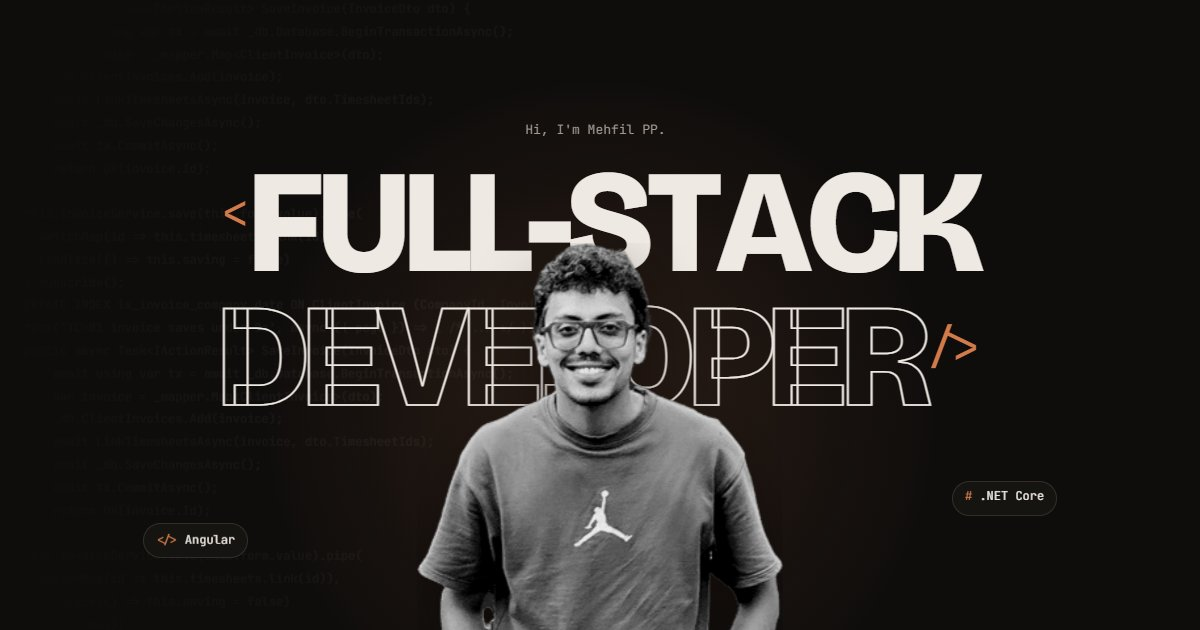
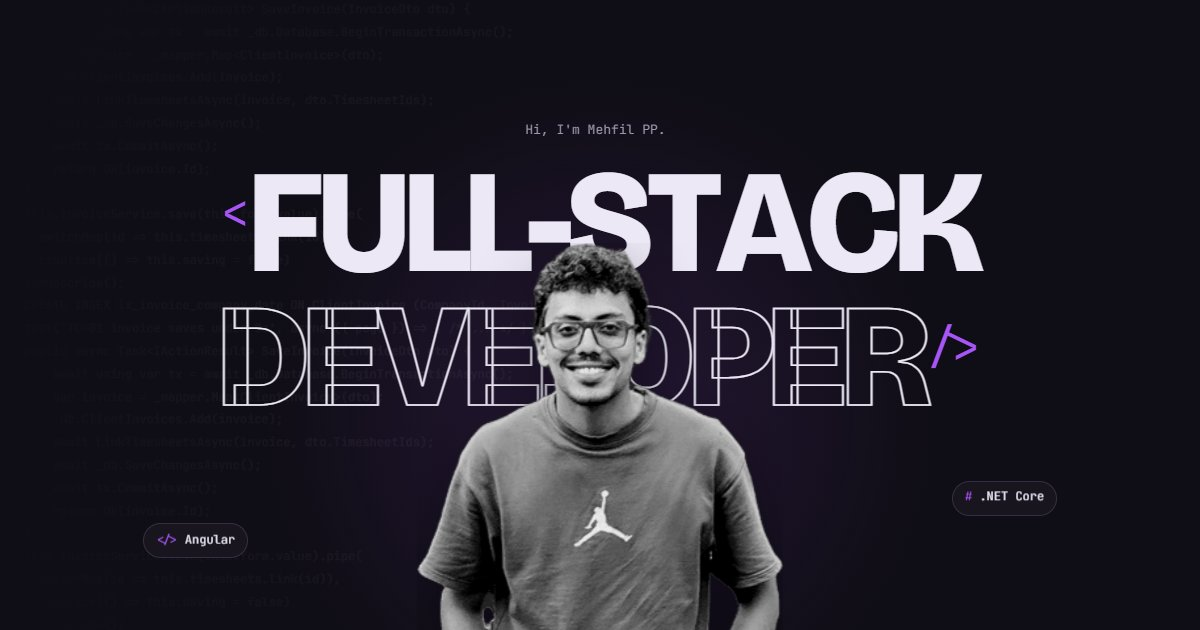
Switch colour theme to the Stimes palette
Replaces the copper palette with the Stimes dark-theme colours: violet
near-black background, plum surfaces, lavender text and brand purple
(#a855f7) as the accent. Commit graph, 404 page, favicon and preview
images follow. Fonts, layout and motion are unchanged.

diff --git a/index.html b/index.html
@@ -3,7 +3,7 @@
 <head>
 <meta charset="utf-8">
 <meta name="viewport" content="width=device-width, initial-scale=1, viewport-fit=cover">
-<meta name="theme-color" content="#0f0d0c">
+<meta name="theme-color" content="#0f0d15">
 <meta property="og:title" content="Mehfil PP · Full-Stack Developer">
 <meta property="og:description" content="Angular & .NET developer building a production multi-tenant ERP, with AI-assisted engineering.">
 <meta property="og:image" content="https://mehfil84.github.io/assets/og.jpg">
@@ -20,15 +20,15 @@
 /* Layout: one dark column. Hero = giant two-line headline with the cut-out portrait standing in
    front of it; folder-card projects; footer where the portrait stands beside a commit graph that spells the name. */
 :root {
-  --ink: #0f0d0c;          /* page ground, warm near-black */
-  --ink-2: #181513;        /* raised surfaces */
-  --ink-3: #24201d;        /* folder bodies, inputs */
-  --line: #332d29;         /* hairlines */
-  --paper: #efe9e3;        /* primary text */
-  --muted: #a39890;        /* secondary text */
-  --copper: #d27a4a;       /* accent, from the photo's shirt */
-  --copper-soft: #d27a4a33;
-  --g0: #1d1917; --g1: #2c211b; --g2: #4a2c1d; --g3: #7a4026; --g4: #f0915a;  /* commit-graph ramp */
+  --ink: #0f0d15;          /* Stimes dark --bg */
+  --ink-2: #1a1722;        /* raised surfaces */
+  --ink-3: #211d2b;        /* folder bodies, inputs */
+  --line: #342e42;         /* hairlines */
+  --paper: #ece8f5;        /* primary text */
+  --muted: #9d96ad;        /* secondary text */
+  --accent: #a855f7;       /* Stimes brand purple (brand-500) */
+  --accent-soft: #a855f733;
+  --g0: #1c1826; --g1: #2a2140; --g2: #43286e; --g3: #6d28d9; --g4: #b57bff;  /* commit-graph ramp */
   --f-display: "Bricolage Grotesque", "Arial Narrow", system-ui, sans-serif;
   --f-body: "Instrument Sans", system-ui, -apple-system, "Segoe UI", sans-serif;
   --f-mono: "JetBrains Mono", ui-monospace, Consolas, monospace;
@@ -45,7 +45,7 @@ body {
 }
 body::before { content: ""; position: fixed; inset: 0 0 auto; height: env(safe-area-inset-top, 0px); z-index: 10; background: var(--ink); }
 a { color: inherit; }
-:focus-visible { outline: 2px solid var(--copper); outline-offset: 3px; border-radius: 6px; }
+:focus-visible { outline: 2px solid var(--accent); outline-offset: 3px; border-radius: 6px; }
 .wrap { max-width: var(--wrap); margin: 0 auto; padding-left: max(16px, env(safe-area-inset-left, 0px)); padding-right: max(16px, env(safe-area-inset-right, 0px)); }
 section { padding-block: clamp(64px, 10vw, 120px); }
 .eyebrow { font-family: var(--f-mono); font-size: 12px; letter-spacing: .14em; text-transform: uppercase; color: var(--muted); }
@@ -71,7 +71,7 @@ h2 { font-family: var(--f-display); font-weight: 600; font-size: clamp(34px, 5vw
 }
 @keyframes drop { from { transform: translateY(-30px); opacity: 0; } }
 .nav-pill .brand { font-family: var(--f-display); font-weight: 600; margin-right: 8px; text-decoration: none; }
-.nav-pill .brand b { color: var(--copper); }
+.nav-pill .brand b { color: var(--accent); }
 .nav-pill nav { display: flex; gap: 2px; overflow-x: auto; scrollbar-width: none; }
 .nav-pill nav a { font-size: 13px; color: var(--muted); text-decoration: none; padding: 6px 11px; border-radius: 999px; white-space: nowrap; transition: color .2s, background .2s; }
 .nav-pill nav a:hover { color: var(--paper); background: var(--ink-3); }
@@ -81,7 +81,7 @@ h2 { font-family: var(--f-display); font-weight: 600; font-size: clamp(34px, 5vw
 .hero { position: relative; padding-block: clamp(84px, 10vw, 120px) 0; overflow: hidden; isolation: isolate; }
 .spot {
   position: absolute; inset: 0; z-index: -1; pointer-events: none;
-  background: radial-gradient(520px circle at var(--mx, 50%) var(--my, 45%), #d27a4a26, transparent 65%);
+  background: radial-gradient(520px circle at var(--mx, 50%) var(--my, 45%), #a855f726, transparent 65%);
   transition: background .1s;
 }
 .codebg {
@@ -94,7 +94,7 @@ h2 { font-family: var(--f-display); font-weight: 600; font-size: clamp(34px, 5vw
 @keyframes drift { to { transform: translateY(-30%); } }
 .hero-inner { position: relative; text-align: center; }
 .hello { font-family: var(--f-mono); font-size: 13px; color: var(--muted); margin: 0 0 18px; min-height: 1.6em; }
-.hello .caret { display: inline-block; width: .55em; height: 1.1em; vertical-align: -.2em; background: var(--copper); margin-left: 2px; animation: blink 1s steps(1) infinite; }
+.hello .caret { display: inline-block; width: .55em; height: 1.1em; vertical-align: -.2em; background: var(--accent); margin-left: 2px; animation: blink 1s steps(1) infinite; }
 @keyframes blink { 50% { opacity: 0; } }
 .stage { position: relative; height: clamp(440px, 62vw, 700px); }
 .hero h1 {
@@ -106,7 +106,7 @@ h2 { font-family: var(--f-display); font-weight: 600; font-size: clamp(34px, 5vw
 .hero h1 .line.outline { color: transparent; -webkit-text-stroke: 1.5px var(--paper); }
 .hero h1 .ch { display: inline-block; animation: rise 1s var(--ease) both; animation-delay: calc(.15s + var(--i) * 45ms); }
 @keyframes rise { from { transform: translateY(105%) rotate(6deg); } }
-.hero h1 .br { font-family: var(--f-mono); font-weight: 400; font-size: .32em; color: var(--copper); letter-spacing: 0; -webkit-text-stroke: 0; vertical-align: .9em; }
+.hero h1 .br { font-family: var(--f-mono); font-weight: 400; font-size: .32em; color: var(--accent); letter-spacing: 0; -webkit-text-stroke: 0; vertical-align: .9em; }
 .me {
   position: absolute; z-index: 2; left: 50%; bottom: 0; height: 88%; width: auto; max-width: none;
   transform: translateX(-50%); transform-origin: bottom center;
@@ -123,7 +123,7 @@ h2 { font-family: var(--f-display); font-weight: 600; font-size: clamp(34px, 5vw
   white-space: nowrap; animation: pop .7s var(--ease) both; animation-delay: calc(1.2s + var(--d) * 120ms);
   translate: var(--px, 0) var(--py, 0); transition: translate .4s var(--ease);
 }
-.badge b { color: var(--copper); font-weight: 500; }
+.badge b { color: var(--accent); font-weight: 500; }
 .badge > span { display: inline-block; animation: bob 4s ease-in-out infinite; animation-delay: calc(var(--d) * -.9s); }
 @keyframes pop { from { opacity: 0; transform: scale(.6); } }
 @keyframes bob { 50% { transform: translateY(-8px); } }
@@ -135,7 +135,7 @@ h2 { font-family: var(--f-display); font-weight: 600; font-size: clamp(34px, 5vw
 }
 .hero-meta > div { font-size: 14px; color: var(--muted); min-width: 0; }
 .hero-meta .l { text-align: left; } .hero-meta .r { text-align: right; }
-.hero-meta .c { font-family: var(--f-mono); font-size: 12px; color: var(--copper); min-width: 24ch; }
+.hero-meta .c { font-family: var(--f-mono); font-size: 12px; color: var(--accent); min-width: 24ch; }
 .status { display: inline-flex; align-items: center; gap: 8px; }
 .status i { width: 8px; height: 8px; border-radius: 50%; background: #5fbf7a; box-shadow: 0 0 0 0 #5fbf7a66; animation: ping 2s ease-out infinite; }
 @keyframes ping { to { box-shadow: 0 0 0 10px #5fbf7a00; } }
@@ -150,7 +150,7 @@ h2 { font-family: var(--f-display); font-weight: 600; font-size: clamp(34px, 5vw
 .proof li { padding: 26px 20px; border-left: 1px solid var(--line); min-width: 0; }
 .proof li:first-child { border-left: 0; }
 .proof .n { font-family: var(--f-display); font-weight: 600; font-size: clamp(28px, 3.4vw, 40px); line-height: 1; font-variant-numeric: tabular-nums; }
-.proof .n em { font-style: normal; color: var(--copper); }
+.proof .n em { font-style: normal; color: var(--accent); }
 .proof .t { font-size: 13px; color: var(--muted); margin-top: 8px; }
 @media (max-width: 760px) {
   .proof ul { grid-template-columns: 1fr 1fr; }
@@ -163,7 +163,7 @@ h2 { font-family: var(--f-display); font-weight: 600; font-size: clamp(34px, 5vw
 .marquee .track { display: flex; width: max-content; animation: scroll 38s linear infinite; }
 .marquee:hover .track { animation-play-state: paused; }
 .marquee span { font-family: var(--f-display); font-weight: 600; font-size: clamp(22px, 3vw, 34px); padding-inline: 22px; white-space: nowrap; color: var(--muted); display: inline-flex; align-items: center; gap: 44px; }
-.marquee span::after { content: "✳"; color: var(--copper); font-size: .6em; }
+.marquee span::after { content: "✳"; color: var(--accent); font-size: .6em; }
 .marquee span:nth-child(3n+1) { color: var(--paper); }
 @keyframes scroll { to { transform: translateX(-50%); } }
 
@@ -171,7 +171,7 @@ h2 { font-family: var(--f-display); font-weight: 600; font-size: clamp(34px, 5vw
 .about-grid { display: grid; grid-template-columns: 1.35fr 1fr; gap: clamp(28px, 5vw, 72px); align-items: start; }
 .about-grid > * { min-width: 0; }
 .about p.big { font-family: var(--f-display); font-size: clamp(22px, 2.6vw, 30px); line-height: 1.3; letter-spacing: -.01em; margin: 18px 0 0; text-wrap: pretty; }
-.about p.big b { color: var(--copper); font-weight: 600; }
+.about p.big b { color: var(--accent); font-weight: 600; }
 .about p.body { color: var(--muted); margin: 18px 0 0; max-width: 62ch; }
 .snap { margin: 0; }
 /* portrait crop of the photo (x 215–555, y 530–955 of 768×1024), black and white like a print */
@@ -180,7 +180,7 @@ h2 { font-family: var(--f-display); font-weight: 600; font-size: clamp(34px, 5vw
   position: absolute; max-width: none; width: 225.9%; left: -63.2%; top: -124.7%;
   filter: grayscale(1) contrast(1.18) brightness(.92); transition: filter .8s ease, transform 1.2s var(--ease); transform-origin: 50% 60%;
 }
-.snap .frame::after { content: ""; position: absolute; inset: 0; pointer-events: none; background: radial-gradient(ellipse at 50% 40%, transparent 55%, #000a 100%), linear-gradient(transparent 70%, #0f0d0ccc); }
+.snap .frame::after { content: ""; position: absolute; inset: 0; pointer-events: none; background: radial-gradient(ellipse at 50% 40%, transparent 55%, #000a 100%), linear-gradient(transparent 70%, #0f0d15cc); }
 .snap:hover .frame img { filter: grayscale(0) contrast(1) brightness(1); transform: scale(1.04); }
 .snap figcaption { font-family: var(--f-mono); font-size: 12px; color: var(--muted); padding-top: 10px; display: flex; justify-content: space-between; gap: 12px; }
 @media (max-width: 800px) { .about-grid { grid-template-columns: 1fr; } .snap { max-width: 380px; } }
@@ -188,10 +188,10 @@ h2 { font-family: var(--f-display); font-weight: 600; font-size: clamp(34px, 5vw
 /* ---------- Skills ---------- */
 .skills { display: grid; grid-template-columns: repeat(auto-fit, minmax(240px, 1fr)); gap: 0; margin-top: 40px; border-top: 1px solid var(--line); }
 .skill { padding: 22px 20px 24px 0; border-bottom: 1px solid var(--line); min-width: 0; }
-.skill h3 { font-family: var(--f-mono); font-size: 12px; font-weight: 500; letter-spacing: .12em; text-transform: uppercase; color: var(--copper); margin: 0 0 12px; }
+.skill h3 { font-family: var(--f-mono); font-size: 12px; font-weight: 500; letter-spacing: .12em; text-transform: uppercase; color: var(--accent); margin: 0 0 12px; }
 .chips { display: flex; flex-wrap: wrap; gap: 6px; }
 .chips span { font-size: 13px; padding: 4px 10px; border: 1px solid var(--line); border-radius: 999px; color: var(--paper); background: var(--ink-2); transition: border-color .2s, transform .2s var(--ease); }
-.chips span:hover { border-color: var(--copper); transform: translateY(-2px); }
+.chips span:hover { border-color: var(--accent); transform: translateY(-2px); }
 
 /* ---------- Projects as folders ---------- */
 .proj-head { display: flex; justify-content: space-between; align-items: end; gap: 20px; flex-wrap: wrap; }
@@ -201,7 +201,7 @@ h2 { font-family: var(--f-display); font-weight: 600; font-size: clamp(34px, 5vw
 @media (max-width: 960px) { .folders { grid-template-columns: repeat(2, 1fr); } }
 @media (max-width: 480px) { .folders { grid-template-columns: 1fr; } }
 .folder { all: unset; cursor: pointer; display: block; position: relative; padding-top: 22px; min-width: 0; }
-.folder:focus-visible { outline: 2px solid var(--copper); outline-offset: 6px; border-radius: 10px; }
+.folder:focus-visible { outline: 2px solid var(--accent); outline-offset: 6px; border-radius: 10px; }
 .folder .back { position: absolute; inset: 22px 0 0; background: var(--ink-2); border: 1px solid var(--line); border-radius: 4px 10px 10px 10px; }
 .folder .back::before {
   content: ""; position: absolute; left: -1px; top: -18px; width: 42%; height: 19px;
@@ -210,9 +210,9 @@ h2 { font-family: var(--f-display); font-weight: 600; font-size: clamp(34px, 5vw
 .folder .sheet {
   position: absolute; left: 10%; right: 10%; top: 30px; height: 70%; border-radius: 4px;
   background: var(--paper); transition: transform .45s var(--ease);
-  padding: 10px 12px; font-family: var(--f-mono); font-size: 9px; line-height: 1.6; color: #4a403a; overflow: hidden;
+  padding: 10px 12px; font-family: var(--f-mono); font-size: 9px; line-height: 1.6; color: #1f0e3d; overflow: hidden;
 }
-.folder .sheet.s2 { left: 16%; right: 6%; top: 34px; background: #cfc5bc; transform: rotate(3deg); }
+.folder .sheet.s2 { left: 16%; right: 6%; top: 34px; background: #d2b5f0; transform: rotate(3deg); }
 .folder:hover .sheet.s1, .folder:focus-visible .sheet.s1 { transform: translateY(-30px) rotate(-3deg); }
 .folder:hover .sheet.s2, .folder:focus-visible .sheet.s2 { transform: translateY(-16px) rotate(6deg); }
 .folder .front {
@@ -221,8 +221,8 @@ h2 { font-family: var(--f-display); font-weight: 600; font-size: clamp(34px, 5vw
   transform-origin: bottom; transition: transform .45s var(--ease), border-color .3s;
   box-shadow: 0 -10px 30px -12px #0009;
 }
-.folder:hover .front, .folder:focus-visible .front { transform: perspective(700px) rotateX(-16deg); border-color: var(--copper); }
-.folder .tag { font-family: var(--f-mono); font-size: 11px; color: var(--copper); letter-spacing: .06em; }
+.folder:hover .front, .folder:focus-visible .front { transform: perspective(700px) rotateX(-16deg); border-color: var(--accent); }
+.folder .tag { font-family: var(--f-mono); font-size: 11px; color: var(--accent); letter-spacing: .06em; }
 .folder .name { font-family: var(--f-display); font-size: 21px; font-weight: 600; line-height: 1.15; display: flex; justify-content: space-between; gap: 10px; align-items: center; }
 .folder .name .arr { flex: none; width: 26px; height: 26px; border-radius: 6px; background: var(--paper); color: var(--ink); display: grid; place-items: center; font-size: 14px; transition: transform .3s var(--ease); }
 .folder:hover .name .arr { transform: rotate(45deg); }
@@ -243,14 +243,14 @@ dialog.case::backdrop { background: #000b; backdrop-filter: blur(4px); }
 .case ul { margin: 20px 0 0; padding-left: 18px; color: var(--muted); display: grid; gap: 10px; }
 .case ul b { color: var(--paper); font-weight: 600; }
 .case .stack { margin-top: 22px; }
-.case .go { display: inline-block; margin-top: 22px; color: var(--copper); font-weight: 500; text-decoration: none; border-bottom: 1px solid var(--copper-soft); }
+.case .go { display: inline-block; margin-top: 22px; color: var(--accent); font-weight: 500; text-decoration: none; border-bottom: 1px solid var(--accent-soft); }
 
 /* ---------- Experience ---------- */
 .xp { margin-top: 44px; display: grid; gap: 0; border-top: 1px solid var(--line); }
 .xp-row { display: grid; grid-template-columns: 200px 1fr; gap: 28px; padding-block: 30px; border-bottom: 1px solid var(--line); }
 .xp-row > * { min-width: 0; }
 .xp-when { font-family: var(--f-mono); font-size: 13px; color: var(--muted); font-variant-numeric: tabular-nums; }
-.xp-when b { display: block; color: var(--copper); font-weight: 500; }
+.xp-when b { display: block; color: var(--accent); font-weight: 500; }
 .xp h3 { font-family: var(--f-display); font-size: 24px; font-weight: 600; margin: 0; line-height: 1.2; }
 .xp h3 span { color: var(--muted); font-weight: 400; }
 .xp h4 { font-size: 13px; font-weight: 600; letter-spacing: .04em; text-transform: uppercase; color: var(--paper); margin: 22px 0 8px; }
@@ -259,14 +259,14 @@ dialog.case::backdrop { background: #000b; backdrop-filter: blur(4px); }
 @media (max-width: 700px) { .xp-row { grid-template-columns: 1fr; gap: 10px; } }
 
 /* ---------- Footer: the main character ---------- */
-footer { border-top: 1px solid var(--line); padding-block: clamp(56px, 8vw, 96px) 28px; background: radial-gradient(ellipse at 50% 120%, #2a1a12 0%, var(--ink) 60%); overflow: hidden; }
+footer { border-top: 1px solid var(--line); padding-block: clamp(56px, 8vw, 96px) 28px; background: radial-gradient(ellipse at 50% 120%, #24123f 0%, var(--ink) 60%); overflow: hidden; }
 .f-top { display: grid; grid-template-columns: 1.2fr 1fr 1fr; gap: 32px; }
 .f-top > * { min-width: 0; }
 .f-top .bye { font-family: var(--f-display); font-weight: 600; font-size: clamp(34px, 5vw, 60px); line-height: 1; letter-spacing: -.02em; margin: 0; }
-.f-top .bye em { font-style: normal; color: var(--copper); }
+.f-top .bye em { font-style: normal; color: var(--accent); }
 .f-col h3 { font-family: var(--f-mono); font-size: 12px; font-weight: 500; letter-spacing: .12em; text-transform: uppercase; color: var(--muted); margin: 0 0 12px; }
 .f-col a { display: block; text-decoration: none; padding: 3px 0; color: var(--paper); width: fit-content; transition: color .2s, transform .2s var(--ease); }
-.f-col a:hover { color: var(--copper); transform: translateX(4px); }
+.f-col a:hover { color: var(--accent); transform: translateX(4px); }
 .mail { display: flex; align-items: center; gap: 8px; flex-wrap: wrap; }
 .mail code { font-family: var(--f-mono); font-size: 13px; user-select: all; word-break: break-all; }
 .btn-sm { all: unset; cursor: pointer; font-size: 12px; padding: 4px 10px; border: 1px solid var(--line); border-radius: 999px; color: var(--muted); }
@@ -282,7 +282,7 @@ footer { border-top: 1px solid var(--line); padding-block: clamp(56px, 8vw, 96px
 .graph i[data-l="1"] { background: var(--g1); }
 .graph i[data-l="2"] { background: var(--g2); }
 .graph i[data-l="3"] { background: var(--g3); }
-.graph i[data-l="4"] { background: var(--g4); box-shadow: 0 0 12px -2px #f0915a66; }
+.graph i[data-l="4"] { background: var(--g4); box-shadow: 0 0 12px -2px #a855f780; }
 .graph i:hover { transform: scale(1.6); position: relative; z-index: 2; }
 .graph.build i[data-name] { animation: commit .6s var(--ease) both; animation-delay: calc(var(--c) * 40ms + var(--r) * 20ms); }
 @keyframes commit { 0% { transform: scale(.2); background: var(--g1); } 60% { transform: scale(1.35); } }
@@ -314,8 +314,8 @@ footer { border-top: 1px solid var(--line); padding-block: clamp(56px, 8vw, 96px
   box-shadow: 0 10px 30px -8px #000c; animation: pop .7s var(--ease) both 2s; transition: transform .25s var(--ease);
 }
 .ask-btn:hover { transform: translateY(-3px); }
-.ask-btn .dot { width: 22px; height: 22px; border-radius: 50%; background: var(--copper); color: var(--ink); display: grid; place-items: center; font-family: var(--f-mono); font-size: 11px; font-weight: 500; }
-.ask-btn:focus-visible { outline: 2px solid var(--copper); outline-offset: 3px; }
+.ask-btn .dot { width: 22px; height: 22px; border-radius: 50%; background: var(--accent); color: var(--ink); display: grid; place-items: center; font-family: var(--f-mono); font-size: 11px; font-weight: 500; }
+.ask-btn:focus-visible { outline: 2px solid var(--accent); outline-offset: 3px; }
 .ask {
   position: fixed; z-index: 31; right: calc(18px + env(safe-area-inset-right, 0px)); bottom: calc(76px + env(safe-area-inset-bottom, 0px));
   width: min(380px, calc(100vw - 32px)); height: min(540px, calc(100dvh - 120px));
@@ -324,7 +324,7 @@ footer { border-top: 1px solid var(--line); padding-block: clamp(56px, 8vw, 96px
 }
 .ask[hidden] { display: none; }
 .ask-h { display: flex; align-items: center; gap: 10px; padding: 14px 14px 12px 16px; border-bottom: 1px solid var(--line); }
-.ask-h .av { width: 34px; height: 34px; border-radius: 50%; overflow: hidden; flex: none; background: var(--copper); position: relative; }
+.ask-h .av { width: 34px; height: 34px; border-radius: 50%; overflow: hidden; flex: none; background: var(--accent); position: relative; }
 .ask-h .av img { position: absolute; max-width: none; width: 230%; left: -65%; top: -4%; filter: grayscale(1) contrast(1.1); }
 .ask-h .who { flex: 1; min-width: 0; }
 .ask-h .who b { display: block; font-size: 14px; }
@@ -333,17 +333,17 @@ footer { border-top: 1px solid var(--line); padding-block: clamp(56px, 8vw, 96px
 .ask-intro { font-family: var(--f-display); font-size: 26px; font-weight: 600; line-height: 1.1; letter-spacing: -.01em; margin: 6px 0 4px; }
 .msg { max-width: 88%; padding: 10px 13px; border-radius: 14px; font-size: 14px; line-height: 1.5; animation: msgIn .35s var(--ease); }
 @keyframes msgIn { from { opacity: 0; transform: translateY(10px); } }
-.msg.from-me { align-self: flex-end; background: var(--copper); color: var(--ink); border-bottom-right-radius: 4px; }
+.msg.from-me { align-self: flex-end; background: var(--accent); color: var(--ink); border-bottom-right-radius: 4px; }
 .msg.bot { align-self: flex-start; background: var(--ink-3); border-bottom-left-radius: 4px; }
-.msg.bot a { color: var(--copper); }
+.msg.bot a { color: var(--accent); }
 .typing span { display: inline-block; width: 6px; height: 6px; border-radius: 50%; background: var(--muted); margin-right: 3px; animation: bob 1s ease-in-out infinite; }
 .typing span:nth-child(2) { animation-delay: .15s; } .typing span:nth-child(3) { animation-delay: .3s; }
 .sugs { display: flex; flex-wrap: wrap; gap: 6px; }
 .sugs button { all: unset; cursor: pointer; font-size: 12.5px; padding: 6px 11px; border-radius: 999px; border: 1px solid var(--line); color: var(--paper); }
-.sugs button:hover, .sugs button:focus-visible { border-color: var(--copper); color: var(--copper); }
+.sugs button:hover, .sugs button:focus-visible { border-color: var(--accent); color: var(--accent); }
 .ask form { display: flex; gap: 8px; padding: 12px; border-top: 1px solid var(--line); }
 .ask input { flex: 1; min-width: 0; background: var(--ink-3); border: 1px solid var(--line); color: var(--paper); border-radius: 999px; padding: 10px 14px; font: inherit; font-size: 14px; }
-.ask input:focus { outline: none; border-color: var(--copper); }
+.ask input:focus { outline: none; border-color: var(--accent); }
 .ask form button { all: unset; cursor: pointer; width: 40px; height: 40px; border-radius: 50%; background: var(--paper); color: var(--ink); display: grid; place-items: center; font-size: 16px; flex: none; }
 .ask .note { font-size: 11px; color: var(--muted); text-align: center; padding: 0 12px 10px; }
 

diff --git a/404.html b/404.html
@@ -8,12 +8,12 @@
 <link rel="stylesheet" href="https://fonts.googleapis.com/css2?family=Bricolage+Grotesque:opsz,wght@12..96,800&family=JetBrains+Mono&display=swap">
 <style>
   :root { color-scheme: dark; }
-  body { margin: 0; min-height: 100vh; display: grid; place-items: center; background: #0f0d0c; color: #efe9e3; font-family: "JetBrains Mono", ui-monospace, monospace; text-align: center; padding: 24px; box-sizing: border-box; }
+  body { margin: 0; min-height: 100vh; display: grid; place-items: center; background: #0f0d15; color: #ece8f5; font-family: "JetBrains Mono", ui-monospace, monospace; text-align: center; padding: 24px; box-sizing: border-box; }
   h1 { font-family: "Bricolage Grotesque", system-ui, sans-serif; font-size: clamp(72px, 20vw, 180px); line-height: .9; margin: 0; letter-spacing: -.04em; }
-  h1 span { color: #d27a4a; }
-  p { color: #a39890; margin: 18px 0 28px; }
-  a { color: #0f0d0c; background: #efe9e3; text-decoration: none; padding: 10px 18px; border-radius: 999px; font-family: system-ui, sans-serif; font-weight: 600; }
-  a:focus-visible { outline: 2px solid #d27a4a; outline-offset: 3px; }
+  h1 span { color: #a855f7; }
+  p { color: #9d96ad; margin: 18px 0 28px; }
+  a { color: #0f0d15; background: #ece8f5; text-decoration: none; padding: 10px 18px; border-radius: 999px; font-family: system-ui, sans-serif; font-weight: 600; }
+  a:focus-visible { outline: 2px solid #a855f7; outline-offset: 3px; }
 </style>
 </head>
 <body>
